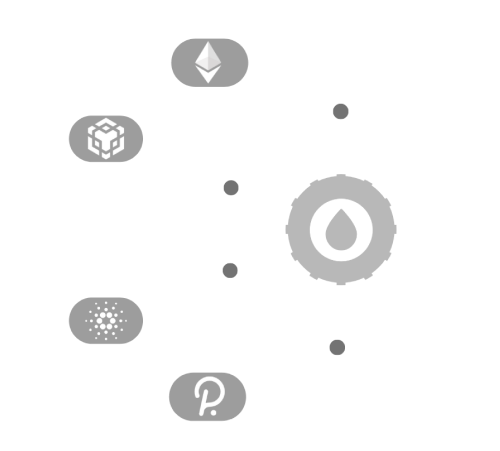
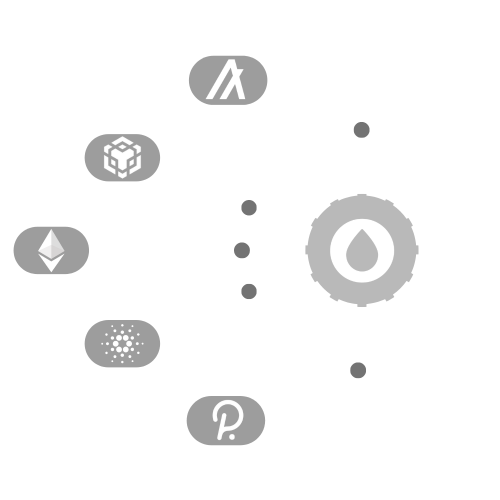
integrate particles

diff --git a/assets/js/particle.js b/assets/js/particle.js
@@ -1,0 +1,133 @@
+/* ---- particles.js config ---- */
+
+particlesJS("particles-js", {
+    "particles": {
+      "number": {
+        "value": 333,
+        "density": {
+          "enable": true,
+          "value_area": 800
+        }
+      },
+      "color": {
+        "value": "#646464"
+      },
+      "shape": {
+        "type": "circle",
+        "stroke": {
+          "width": 0,
+          "color": "#000000"
+        },
+        "polygon": {
+          "nb_sides": 5
+        },
+        "image": {
+          "src": "img/github.svg",
+          "width": 100,
+          "height": 100
+        }
+      },
+      "opacity": {
+        "value": 0.5,
+        "random": false,
+        "anim": {
+          "enable": false,
+          "speed": 1,
+          "opacity_min": 0.1,
+          "sync": false
+        }
+      },
+      "size": {
+        "value": 3,
+        "random": true,
+        "anim": {
+          "enable": false,
+          "speed": 0.1,
+          "size_min": 0.1,
+          "sync": false
+        }
+      },
+      "line_linked": {
+        "enable": true,
+        "distance": 150,
+        "color": "#646464",
+        "opacity": 0.9,
+        "width": 0.5
+      },
+      "move": {
+        "enable": true,
+        "speed": 1,
+        "direction": "none",
+        "random": false,
+        "straight": false,
+        "out_mode": "out",
+        "bounce": false,
+        "attract": {
+          "enable": false,
+          "rotateX": 600,
+          "rotateY": 1200
+        }
+      }
+    },
+    "interactivity": {
+      "detect_on": "canvas",
+      "events": {
+        "onhover": {
+          "enable": true,
+          "mode": "grab"
+        },
+        "onclick": {
+          "enable": true,
+          "mode": "push"
+        },
+        "resize": false
+      },
+      "modes": {
+        "grab": {
+          "distance": 140,
+          "line_linked": {
+            "opacity": 1
+          }
+        },
+        "bubble": {
+          "distance": 400,
+          "size": 40,
+          "duration": 2,
+          "opacity": 8,
+          "speed": 3
+        },
+        "repulse": {
+          "distance": 200,
+          "duration": 0.4
+        },
+        "push": {
+          "particles_nb": 4
+        },
+        "remove": {
+          "particles_nb": 2
+        }
+      }
+    },
+    "retina_detect": true
+  });
+  
+  
+  /* ---- stats.js config ---- */
+  
+  var count_particles, stats, update;
+  stats = new Stats;
+  stats.setMode(0);
+  stats.domElement.style.position = 'absolute';
+  stats.domElement.style.left = '0px';
+  stats.domElement.style.top = '0px';
+  document.body.appendChild(stats.domElement);
+  count_particles = document.querySelector('.js-count-particles');
+  update = function() {
+    stats.begin();
+    stats.end();
+    if (window.pJSDom[0].pJS.particles && window.pJSDom[0].pJS.particles.array) {
+      count_particles.innerText = window.pJSDom[0].pJS.particles.array.length;
+    }
+    requestAnimationFrame(update);
+  };
+  requestAnimationFrame(update);

diff --git a/assets/css/main.css b/assets/css/main.css
@@ -2512,6 +2512,10 @@ a:hover {
 /* Mobile Fixes */
 @media screen and (max-width:736px) {
 
+  canvas {
+    display: none!important;
+  }
+
   #multichain-pic {
     width: 250px !important;
     height: auto !important;
@@ -2535,7 +2539,7 @@ a:hover {
     flex-direction: column !important;
   }
 
-  #blockchain-specs {
+  .blockchain-specs {
     width: auto !important;
     align-items: center;
   }
@@ -2753,7 +2757,7 @@ a:hover {
   padding: 1rem;
 }
 
-#blockchain-specs {
+.blockchain-specs {
   width: 60rem auto;
   display: flex;
   flex-direction: column;
@@ -2820,4 +2824,23 @@ a:hover {
   flex-direction: column;
   justify-content: center;
   align-items: center;
+}
+
+canvas {
+  margin-top: -15rem;
+  height: 80%!important;
+  display: block;
+  vertical-align: bottom;
+}
+
+/* ---- particles.js container ---- */
+
+#particles-js {
+  width: 100% auto;
+  height: 50% auto;
+  background-color: transparent;
+  background-image: url("");
+  background-repeat: no-repeat;
+  background-size: cover;
+  background-position: 50% 50%;
 }

diff --git a/index.html b/index.html
@@ -12,14 +12,15 @@ description: meta.description
   {% include stylesheets.html %}
 </head>
 
-<!-- Initial panel -->
-
 <body class="is-preload">
   <div id="page-wrapper">
     <div class="hideDesktop">
       {% include language_selector_navbar_item.html %}
     </div>
     <div id="wrapper">
+
+      <!-- Initial panel -->
+
       <section class="panel banner left">
         <div class="content span-3-75" id="intro-structure">
           <nav class="menu">
@@ -74,8 +75,10 @@ description: meta.description
           </div>
           </div>
         </div>
+
         
-        <div id="blockchain-specs">
+        <div id="particles-js">
+        <div class="blockchain-specs">
           <div class="blockchains">
 
           <div class="eth-specs">
@@ -152,6 +155,7 @@ description: meta.description
              18
             </div>
           </div>          
+        </div>
 
         </div>
         </div>    

diff --git a/_includes/body_javascripts.html b/_includes/body_javascripts.html
@@ -5,3 +5,7 @@
 <script src="assets/js/main.js"></script>
 <script src="assets/js/overlay.js"></script>
 <script src="assets/js/blog-data.js"></script>
+<script src="http://cdn.jsdelivr.net/particles.js/2.0.0/particles.min.js"></script>
+<script src="assets/js/particle.js"></script>
+
+
